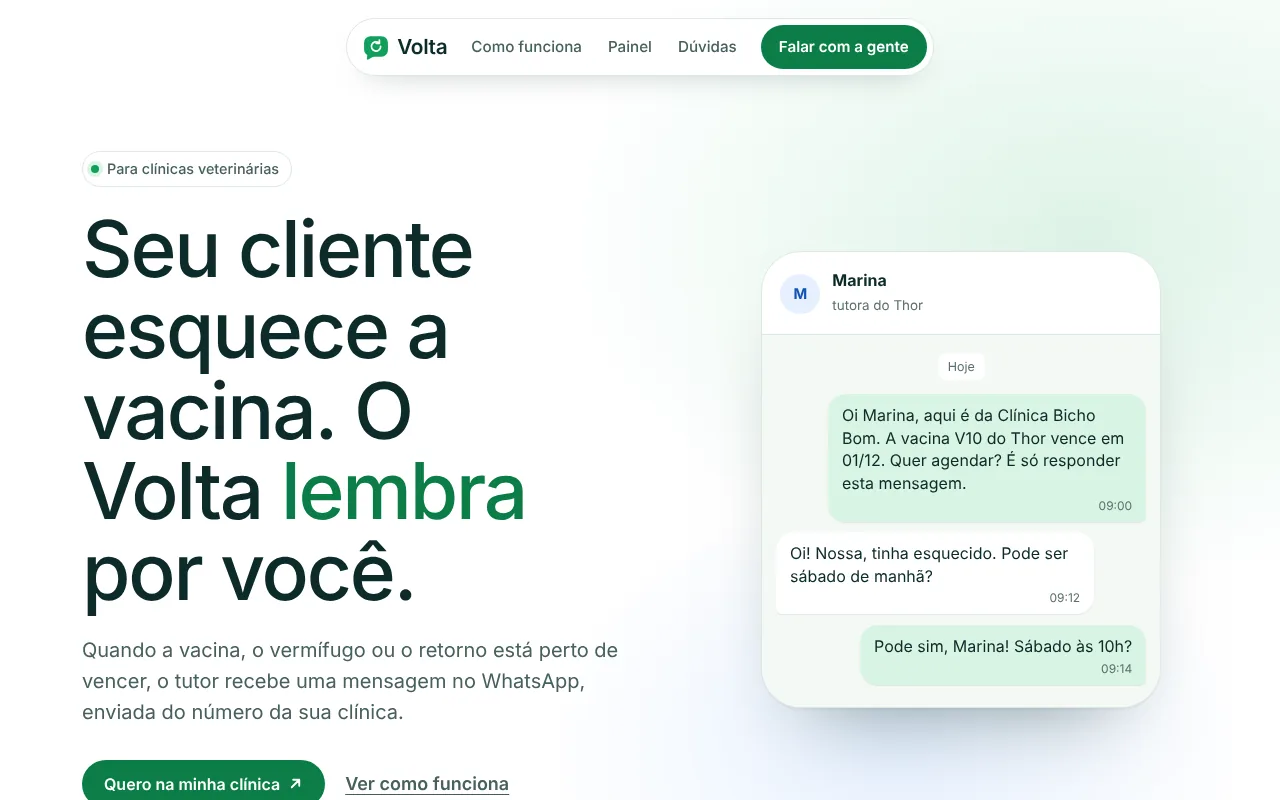
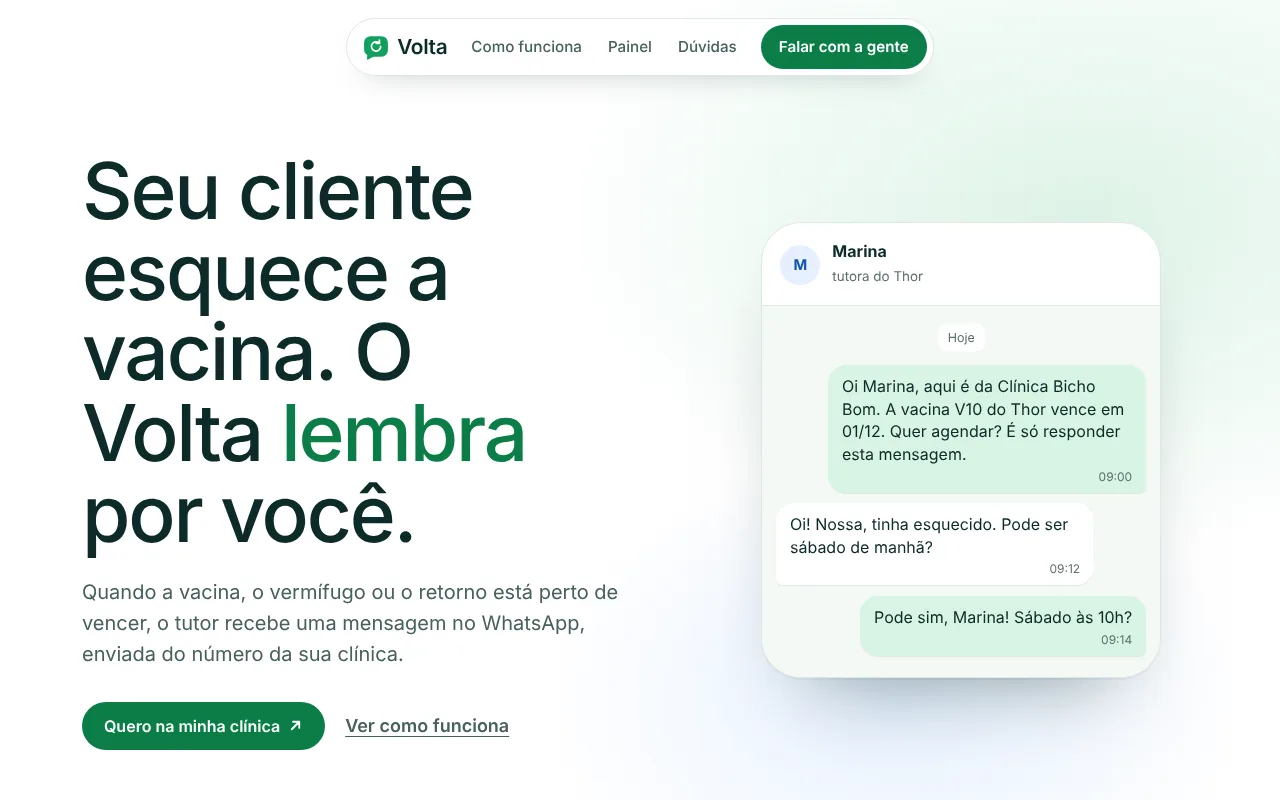
Klubs: 20+ apps em produção, App Store e Google Play em destaque e telas do app Devs
- Telas do app em molduras de celular; no celular viram uma faixa que rola para o lado
- Volta: tira o "Para clínicas veterinárias" do herói e atualiza a prévia na seção Projetos

diff --git a/index.html b/index.html
@@ -299,11 +299,22 @@ html:not(.pin) .stage__anchor{order:3;grid-column:auto;grid-row:auto;height:auto
 .about__lead{max-width:30em;font-size:clamp(1.25rem,1.9vw,1.625rem);line-height:1.4;font-weight:500;letter-spacing:-.01em;text-wrap:pretty}
 .about__more{max-width:36em;font-size:clamp(1.0625rem,1.3vw,1.25rem);line-height:1.5;color:var(--mute);text-wrap:pretty}
 .trail{display:grid;grid-template-columns:auto minmax(0,1fr);column-gap:20px;border-bottom:1px solid var(--line)}
-.trail li{display:grid;grid-template-columns:subgrid;grid-column:1/-1;row-gap:2px;align-items:start;padding:16px 0;border-top:1px solid var(--line)}
+.trail > li{display:grid;grid-template-columns:subgrid;grid-column:1/-1;row-gap:2px;align-items:start;padding:16px 0;border-top:1px solid var(--line)}
 .trail__when{grid-row:1/4;width:min-content;padding-top:.55em}
 .trail__where{grid-column:2;font-size:1.5rem;font-weight:750;line-height:1.15;letter-spacing:-.03em;white-space:nowrap}
 .trail__what{grid-column:2;font-weight:560}
 .trail__how{grid-column:2;font-size:.9375rem;color:var(--mute)}
+/* Klubs: o número de apps, as duas lojas e telas de um dos apps */
+.klubs{grid-column:2;display:grid;row-gap:18px;margin-top:14px}
+.klubs__stat{display:flex;align-items:baseline;flex-wrap:wrap;gap:4px 10px}
+.klubs__stat b{font-family:var(--font-display);font-size:clamp(3.25rem,6vw,4.75rem);font-weight:800;line-height:.9;letter-spacing:-.05em}
+.klubs__stat span{font-size:1.0625rem;font-weight:650}
+.klubs__stores{display:flex;flex-wrap:wrap;gap:8px;margin-top:12px}
+.klubs__stores li{display:inline-flex;align-items:center;gap:6px;padding:7px 13px 7px 10px;border-radius:999px;background:var(--ink);color:var(--paper);font-size:.875rem;font-weight:650;line-height:1}
+.klubs__stores .i{font-size:1em;stroke-width:2.6}
+.klubs__fig{margin:0;display:grid;row-gap:8px;min-width:0}
+.klubs__shots{display:flex;gap:12px;overflow-x:auto;scroll-snap-type:x mandatory;padding:2px 2px 10px;scrollbar-width:thin}
+.klubs__shots img{flex:none;width:clamp(128px,13vw,172px);height:auto;scroll-snap-align:start;border:5px solid #121318;border-radius:clamp(20px,2vw,26px);background:#121318;box-shadow:0 24px 40px -28px rgb(0 0 0 / .55)}
 /* Projetos: um item por projeto, com o que é, a prova e os links */
 .work{display:grid;border-bottom:1px solid var(--line)}
 .work__item{display:grid;align-content:start;row-gap:10px;padding:22px 0 26px;border-top:1px solid var(--line)}
@@ -385,9 +396,11 @@ html:not(.pin) .stage__anchor{order:3;grid-column:auto;grid-row:auto;height:auto
   .demo__cap .cap__d{font-size:1rem}
 
   .trail{grid-template-columns:10rem minmax(9rem,.9fr) minmax(12rem,1.1fr) minmax(0,1.8fr);column-gap:24px}
-  .trail li{align-items:baseline;padding:22px 0}
+  .trail > li{align-items:baseline;padding:22px 0}
   .trail__when{grid-row:auto;width:auto;padding-top:0;white-space:nowrap}
   .trail__where,.trail__what,.trail__how{grid-column:auto}
+  .klubs{grid-column:2/-1;grid-template-columns:minmax(0,1fr) auto;align-items:center;column-gap:40px;margin-top:22px}
+  .klubs__shots{overflow:visible;padding-bottom:0}
   .trail__where{font-size:2rem}
   .tools{grid-template-columns:repeat(4,minmax(0,1fr))}
   .work{grid-template-columns:repeat(2,minmax(0,1fr));column-gap:48px;border-bottom:0}
@@ -595,7 +608,24 @@ html:not(.pin) .stage__anchor{order:3;grid-column:auto;grid-row:auto;height:auto
       <div class="block" id="trajetoria">
         <h2 class="h2">Trajetória</h2>
         <ol class="trail">
-          <li><span class="trail__when label">fev&nbsp;2026&nbsp;– hoje</span><strong class="trail__where">Klubs</strong><span class="trail__what">Desenvolvedor mobile</span><span class="trail__how">15+ apps white-label para iOS e Android, em React Native (Expo) e TypeScript. Publico nas lojas e cuido de CI/CD e das atualizações OTA.</span></li>
+          <li><span class="trail__when label">fev&nbsp;2026&nbsp;– hoje</span><strong class="trail__where">Klubs</strong><span class="trail__what">Desenvolvedor mobile</span><span class="trail__how">Apps white-label para iOS e Android, em React Native (Expo) e TypeScript. Publico nas lojas e cuido de CI/CD e das atualizações OTA.</span>
+            <div class="klubs">
+              <div class="klubs__facts">
+                <p class="klubs__stat"><b>20+</b><span>apps em produção</span></p>
+                <ul class="klubs__stores" aria-label="Publicados nas duas lojas">
+                  <li><svg class="i" aria-hidden="true" viewBox="0 0 24 24"><path d="M5 12.5l4.2 4.2L19 7.5"/></svg>App Store</li>
+                  <li><svg class="i" aria-hidden="true" viewBox="0 0 24 24"><path d="M5 12.5l4.2 4.2L19 7.5"/></svg>Google Play</li>
+                </ul>
+              </div>
+              <figure class="klubs__fig">
+                <div class="klubs__shots" tabindex="0" role="group" aria-label="Telas do app Devs">
+                  <img src="trajetoria/klubs-inicio.webp" alt="Tela inicial do app Devs: aula ao vivo em destaque e os próximos eventos." width="480" height="1041" loading="lazy" decoding="async">
+                  <img src="trajetoria/klubs-eventos.webp" alt="Lista de eventos do app Devs, com o evento ao vivo em destaque." width="480" height="1041" loading="lazy" decoding="async">
+                  <img src="trajetoria/klubs-evento.webp" alt="Página de um evento semanal, com a contagem até o início e o botão de participar." width="480" height="1041" loading="lazy" decoding="async">
+                </div>
+                <figcaption class="label">App Devs, um dos apps da Klubs.</figcaption>
+              </figure>
+            </div></li>
           <li><span class="trail__when label">set&nbsp;2025&nbsp;– jan&nbsp;2026</span><strong class="trail__where">Stealth</strong><span class="trail__what">Desenvolvedor full stack</span><span class="trail__how">Produto com mais de 2.000 usuários ativos por dia. Front-end em Next.js e React, APIs e serviços em Node.js e Python.</span></li>
           <li><span class="trail__when label">fev&nbsp;2025&nbsp;– set&nbsp;2025</span><strong class="trail__where">DOOOR</strong><span class="trail__what">Desenvolvedor full stack</span><span class="trail__how">Liderança do front-end em um time de 3 desenvolvedores, com React e Next.js. Produtos Web3 com conexão de carteira e contratos inteligentes.</span></li>
           <li><span class="trail__when label">out&nbsp;2023&nbsp;– fev&nbsp;2025</span><strong class="trail__where">Scalable</strong><span class="trail__what">Desenvolvedor full stack</span><span class="trail__how">Plataforma financeira de crédito e pagamentos. A maior parte do trabalho no back-end, com NestJS, TypeScript e Prisma.</span></li>

diff --git a/volta/index.html b/volta/index.html
@@ -244,7 +244,6 @@ details p{max-width:40em;padding-bottom:22px;color:var(--ink-2)}
   <section class="hero" id="conteudo">
     <div class="wrap hero-grid">
       <div>
-        <p class="kicker"><i aria-hidden="true"></i>Para clínicas veterinárias</p>
         <h1>Seu cliente esquece a vacina. O Volta <em>lembra</em> por você.</h1>
         <p class="lede">Quando a vacina, o vermífugo ou o retorno está perto de vencer, o tutor recebe uma mensagem no WhatsApp, enviada do número da sua clínica.</p>
         <div class="hero-cta">
